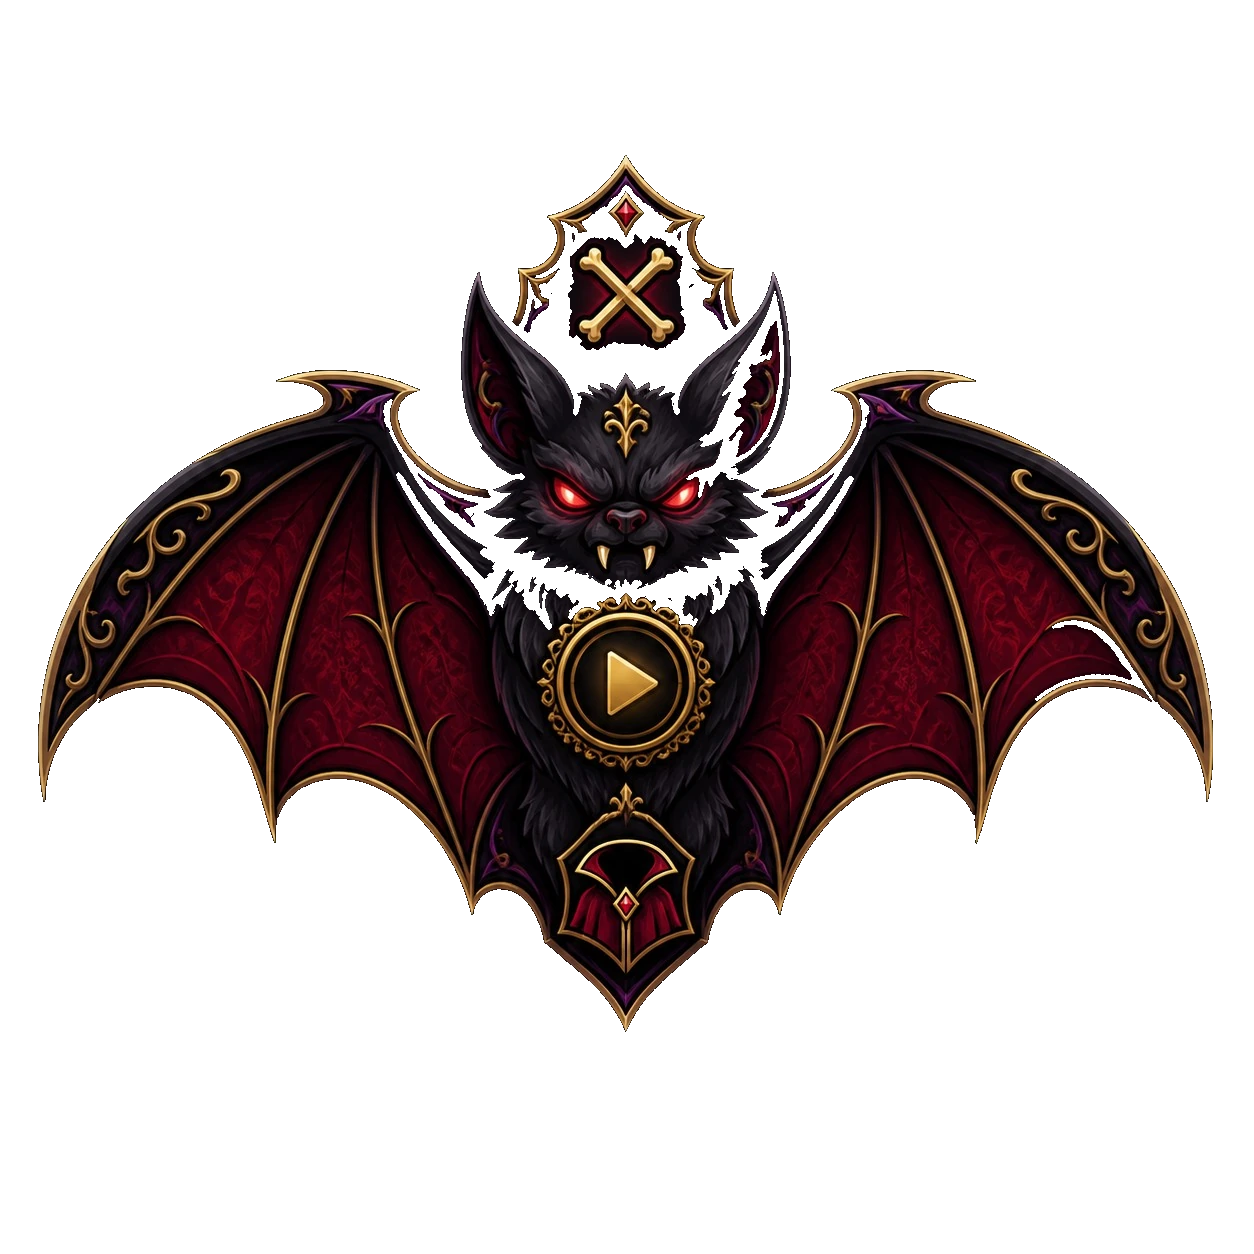
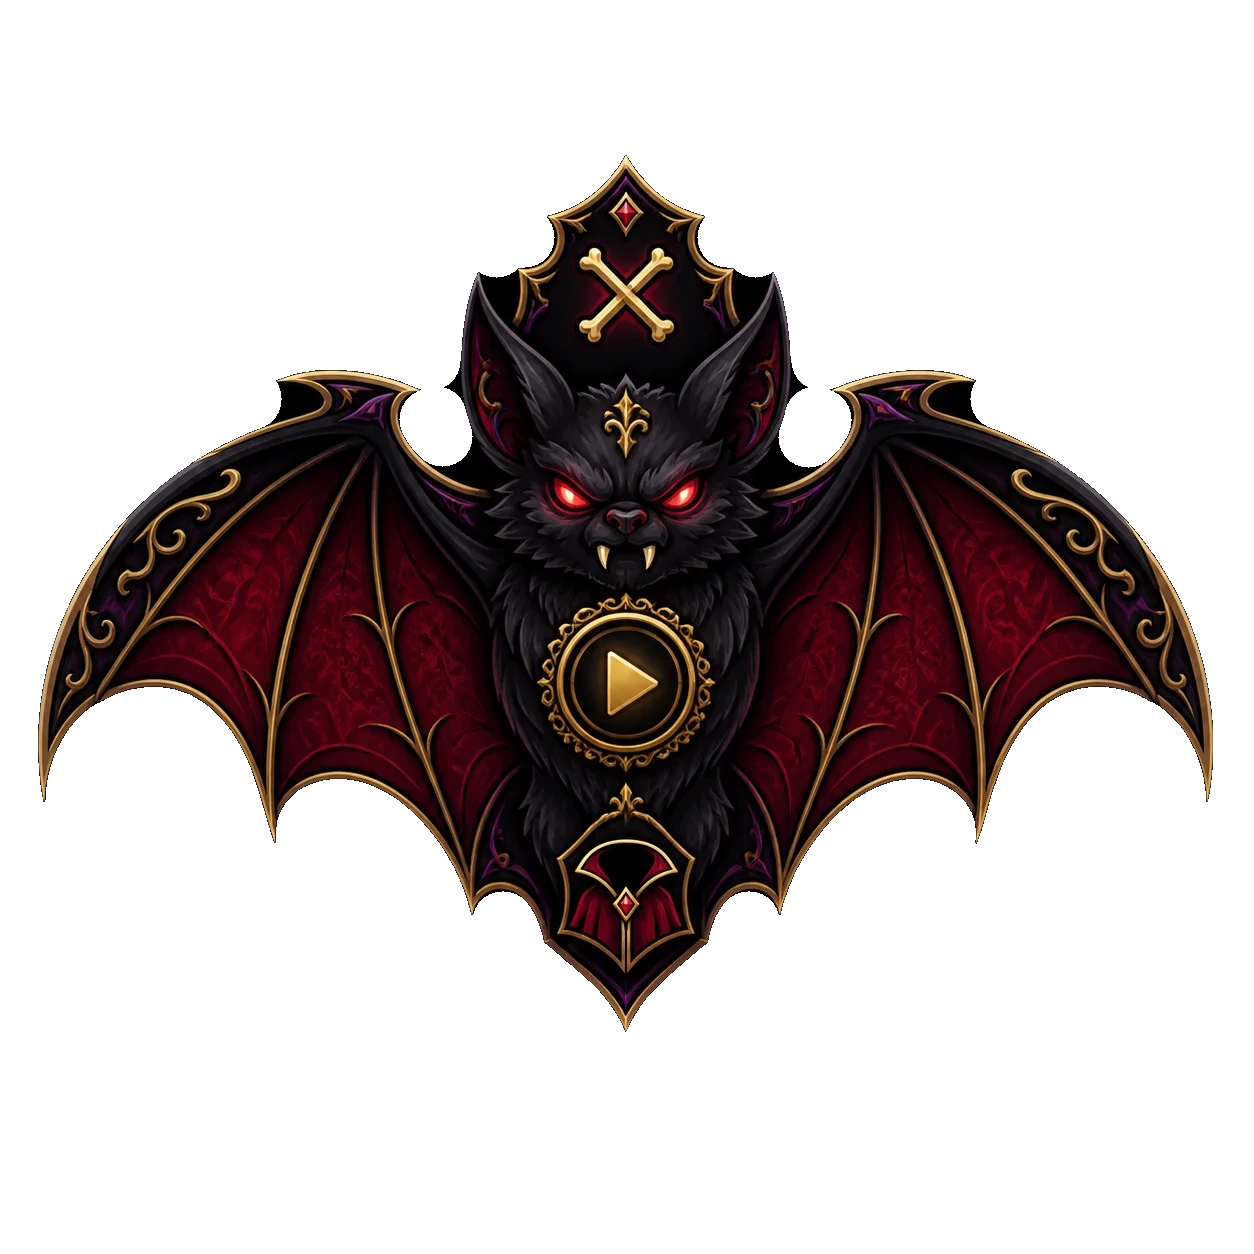
fix: handle special characters in filenames and repair dracula bat sprite
- Move pathToFileURL conversion to main process to preserve spaces, '%', and '#' in filenames during IPC
- Expand audio format filter from 5 to 17 common formats (mp3, flac, ogg, wav, m4a, aac, opus, etc.) and add "All files" escape hatch
- Change file picker default path from Downloads to OS Music folder for better UX
- Add best-effort decoding in trackTitle() to prevent URIError when filenames contain literal '%' characters
- Scroll playlist into view on track additions to prevent appended files landing below visible rows
- Rebuild dracula-bat.webp from original artwork to restore head that was erased by flood-fill transparency artifact
- Update AGENTS.md with detailed notes on both fixes and troubleshooting attempts

diff --git a/src/main/index.ts b/src/main/index.ts
@@ -5,7 +5,7 @@
 import { app, BrowserWindow, ipcMain, dialog, shell } from 'electron'
 import { join } from 'path'
 import { readFile } from 'fs/promises'
-import { fileURLToPath } from 'url'
+import { fileURLToPath, pathToFileURL } from 'url'
 import { is } from '@electron-toolkit/utils'
 
 let win: BrowserWindow | null = null
@@ -173,15 +173,28 @@ ipcMain.on('window:maximize', () => {
   win.isMaximized() ? win.unmaximize() : win.maximize()
 })
 
-/** Open a native file-picker for local audio files */
+/** Open a native file-picker for local audio files. Returns file:// URLs —
+ *  pathToFileURL keeps spaces, '%' and '#' in a filename intact, so the read
+ *  IPC can turn them back into the exact path that was picked. */
+const AUDIO_EXTENSIONS = [
+  'mp3', 'm4a', 'aac', 'flac', 'wav', 'ogg', 'oga', 'opus',
+  'aiff', 'aif', 'alac', 'wma', 'ape', 'm4b', 'mp4', 'webm', 'caf',
+]
+
 ipcMain.handle('dialog:openAudio', async () => {
   if (!win) return []
   const result = await dialog.showOpenDialog(win, {
-    title: 'Add tracks',
-    filters: [{ name: 'Audio', extensions: ['mp3', 'flac', 'ogg', 'wav', 'm4a'] }],
+    title: 'Add audio files',
+    // Open where music lives; the default (Downloads) is usually all folders.
+    defaultPath: app.getPath('music'),
+    filters: [
+      { name: 'Audio', extensions: AUDIO_EXTENSIONS },
+      // Escape hatch: a format missing from the list must still be pickable.
+      { name: 'All files', extensions: ['*'] },
+    ],
     properties: ['openFile', 'multiSelections'],
   })
-  return result.canceled ? [] : result.filePaths
+  return result.canceled ? [] : result.filePaths.map((p) => pathToFileURL(p).href)
 })
 
 /** Hand an audio file's bytes to the renderer — Chromium blocks fetch on

diff --git a/src/renderer/openFiles.ts b/src/renderer/openFiles.ts
@@ -12,9 +12,23 @@ export async function openLocalFiles(player: Player): Promise<void> {
   const urls = await api.openAudioFiles()
   if (!urls.length) return
   const tracks: Track[] = urls.map((url) => ({
-    title: decodeURIComponent(url.split('/').pop() ?? url).replace(/\.[^.]+$/, ''),
+    title: trackTitle(url),
     artist: 'Local',
     url,
   }))
   player.addTracks(tracks)
+}
+
+/** Filename without its extension. Decoding is best-effort: a literal '%' in
+ *  a name ("100%.mp3") is not a URI escape, and letting decodeURIComponent
+ *  throw there aborted the whole selection before it reached the playlist. */
+function trackTitle(url: string): string {
+  const file = url.split('/').pop() ?? url
+  let name = file
+  try {
+    name = decodeURIComponent(file)
+  } catch {
+    name = file
+  }
+  return name.replace(/\.[^.]+$/, '')
 }

diff --git a/src/preload/index.ts b/src/preload/index.ts
@@ -27,10 +27,8 @@ contextBridge.exposeInMainWorld('skinwalker', {
   maximize: () => ipcRenderer.send('window:maximize'),
 
   /** Open native file picker, returns array of file:// URLs */
-  openAudioFiles: async (): Promise<string[]> => {
-    const paths: string[] = await ipcRenderer.invoke('dialog:openAudio')
-    return paths.map((p) => `file:///${p.replace(/\\/g, '/')}`)
-  },
+  openAudioFiles: async (): Promise<string[]> =>
+    ipcRenderer.invoke('dialog:openAudio'),
 
   /** Read an audio file's bytes (file:// cannot be fetched by the renderer) */
   readAudioFile: async (url: string): Promise<ArrayBuffer | null> =>

diff --git a/src/renderer/skins/DraculaSkin.ts b/src/renderer/skins/DraculaSkin.ts
@@ -117,6 +117,10 @@ export class DraculaSkin implements Skin {
 
   onPlaylistUpdate(): void {
     this.buildPlaylist()
+    // Picked files append at the bottom, but the board is shorter than the
+    // list — without this the new rows are scrolled out of sight.
+    const list = this.els?.playlist
+    if (list) list.scrollTop = list.scrollHeight
   }
 
   // ── DOM ──────────────────────────────────────────────────────────────────────

diff --git a/src/renderer/skins/FrankensteinSkin.ts b/src/renderer/skins/FrankensteinSkin.ts
@@ -60,6 +60,9 @@ export class FrankensteinSkin implements Skin {
 
   onPlaylistUpdate(): void {
     this.buildPlaylist()
+    // Added rows land at the bottom of the board; show them.
+    const list = this.container?.querySelector<HTMLOListElement>('.fr-playlist')
+    if (list) list.scrollTop = list.scrollHeight
   }
 
   // ── DOM ──────────────────────────────────────────────────────────────────────

diff --git a/src/renderer/skins/SkeletonSkin.ts b/src/renderer/skins/SkeletonSkin.ts
@@ -100,6 +100,9 @@ export class SkeletonSkin implements Skin {
 
   onPlaylistUpdate(): void {
     this.buildPlaylist()
+    // Added rows land at the bottom of the board; show them.
+    const list = this.els?.playlist
+    if (list) list.scrollTop = list.scrollHeight
   }
 
   // ── DOM ──────────────────────────────────────────────────────────────────────

diff --git a/docs/AGENTS.md b/docs/AGENTS.md
@@ -216,6 +216,31 @@ hand. The focus outline is clipped to the same silhouette, so keyboard focus sho
 full glow instead of a rectangle.
 The two masks are cut per side; they are lit differently and are not mirrors.
 
+**The folder tool adds files again (2026-11-21):** the tool-row coffin and the floating pill both
+run `openLocalFiles`, and both looked like they only opened a folder. Two causes. First, the
+title was built with a bare `decodeURIComponent(url.split('/').pop())` — a filename with a
+literal `%` (`100%.mp3`) throws `URIError` there, so the whole selection was dropped after the
+dialog closed and the playlist never changed. Titles now decode best-effort, and the path→URL
+step moved to `pathToFileURL` in the main process, so spaces, `%` and `#` survive the trip to
+`audio:read`. Second, the picker's filter listed only five extensions and Windows hides
+non-matching files, so a music folder showed nothing but subfolders: the filter now covers the
+common audio formats and carries an "All files" escape hatch, and the dialog opens at the OS
+Music folder instead of Downloads. New rows are also scrolled into view by `onPlaylistUpdate` —
+all three track boards are shorter than the playlist, so appended files used to land below the
+visible rows, which read as "not added" even when the track was there.
+
+**The mini bat had no head (2026-11-21):** the bat plate's alpha shapes the mini window, and its
+cut-out flood fill had run in through the gap above the crown and eaten the head — the fur is
+nearly as dark as the backdrop, so the whole face was transparent and the desktop showed straight
+through the middle of the bat; the plate read as a winged collar with glowing eyes. Rebuilt from
+the original 1254×1254 artwork the plate was cut from: close the narrow channels (30px disk), fill
+the enclosed interior, and take the colours from the source, which still has the face, medallion
+and fur under the cut. Two repairs were tried and dropped first — restoring alpha where the
+source luminance is above the backdrop (the fur is as dark as the shadow, so the body turned
+translucent) and smearing the nearest fur colour into the pockets (it read as a grey halo). The
+mini window is now solid: 0 enclosed transparent pixels, 30.7% opaque. `reference/dracula-web/
+fix-bat.py` reproduces it and `dracula-bat-original.webp` keeps the pre-repair plate.
+
 ## Recent Improvements (2026-11-08)
 - **Blood effects (CORRECTED 2026-11-20):** an earlier entry here claimed blood-drip elements. Only the 21-drip curtain (`DRIP_X` and `buildDrips()` in `src/renderer/skins/DraculaSkin.ts`) exists in committed code; `git log -S` finds no splatter or trail code in any commit.
 - **Complete Kiro infrastructure:** Full `.kiro/` folder created with specs (3 files incl. submission-readiness), steering files (7 files including auto-load guides), hooks (3), workflows (1 template), and comprehensive documentation explaining all Kiro concepts.
